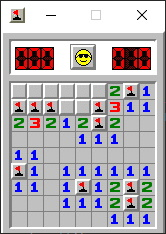
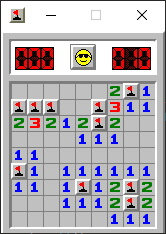
Uncover all blocks to win

Changed region(s): [[0.0602, 0.3291, 0.6627, 0.5085]]

diff --git a/minesweeper.py b/minesweeper.py
@@ -26,7 +26,7 @@ cursorEvent = pygame.event.poll()
 
 #Define game variables.
 gameOver = False
-bombCount = 10
+bombCount = 3
 flagsPlaced = 0
 smileState = "Game"
 
@@ -531,7 +531,7 @@ def uncoverBombs():
 	for blockY in range(ROWS):
 		for blockX in range(COLUMNS):
 			if mineField[blockY][blockX] == 1:
-				if coverField[blockY][blockX] < 2:
+				if coverField[blockY][blockX] == 0:
 					coverField[blockY][blockX] = 1
 					bombBlock(blockX, blockY)
 
@@ -542,18 +542,19 @@ def checkFlags():
 	global flagsPlaced
 	global gameOver
 	global smileState
-
 	acceptableFlags = 0
+	
 
 	if bombCount - flagsPlaced == 0:
 		for blockY in range(ROWS):
 			for blockX in range(COLUMNS):
-					if coverField[blockY][blockX] == 2 and mineField[blockY][blockX] == 1:
-						acceptableFlags += 1
-		if acceptableFlags == bombCount:
+				if coverField[blockY][blockX] == 2 and mineField[blockY][blockX] == 1:
+					acceptableFlags += 1
+
+		if acceptableFlags == bombCount and not any(0 in sublist for sublist in coverField):
 			smileState = "Cool"
 			gameOver = True
-
+			
 
 #Set up mineFeild 
 placeBombs()
@@ -609,13 +610,12 @@ def gameLoop():
 
 		if smileState != "Cool": 
 			smileState = "Dead"
+			for blockY in range(9):
+				for blockX in range(9):
+				    uncoverBombs()
 
 		smileImgX = ((WIN_WIDTH / 2) - (26/2))
 		smileImgY = ((MARGIN) - (26/2)) + PADDING
-
-		for blockY in range(9):
-			for blockX in range(9):
-			    uncoverBombs()
 
 		for event in pygame.event.get():
 			if event.type == pygame.QUIT:
